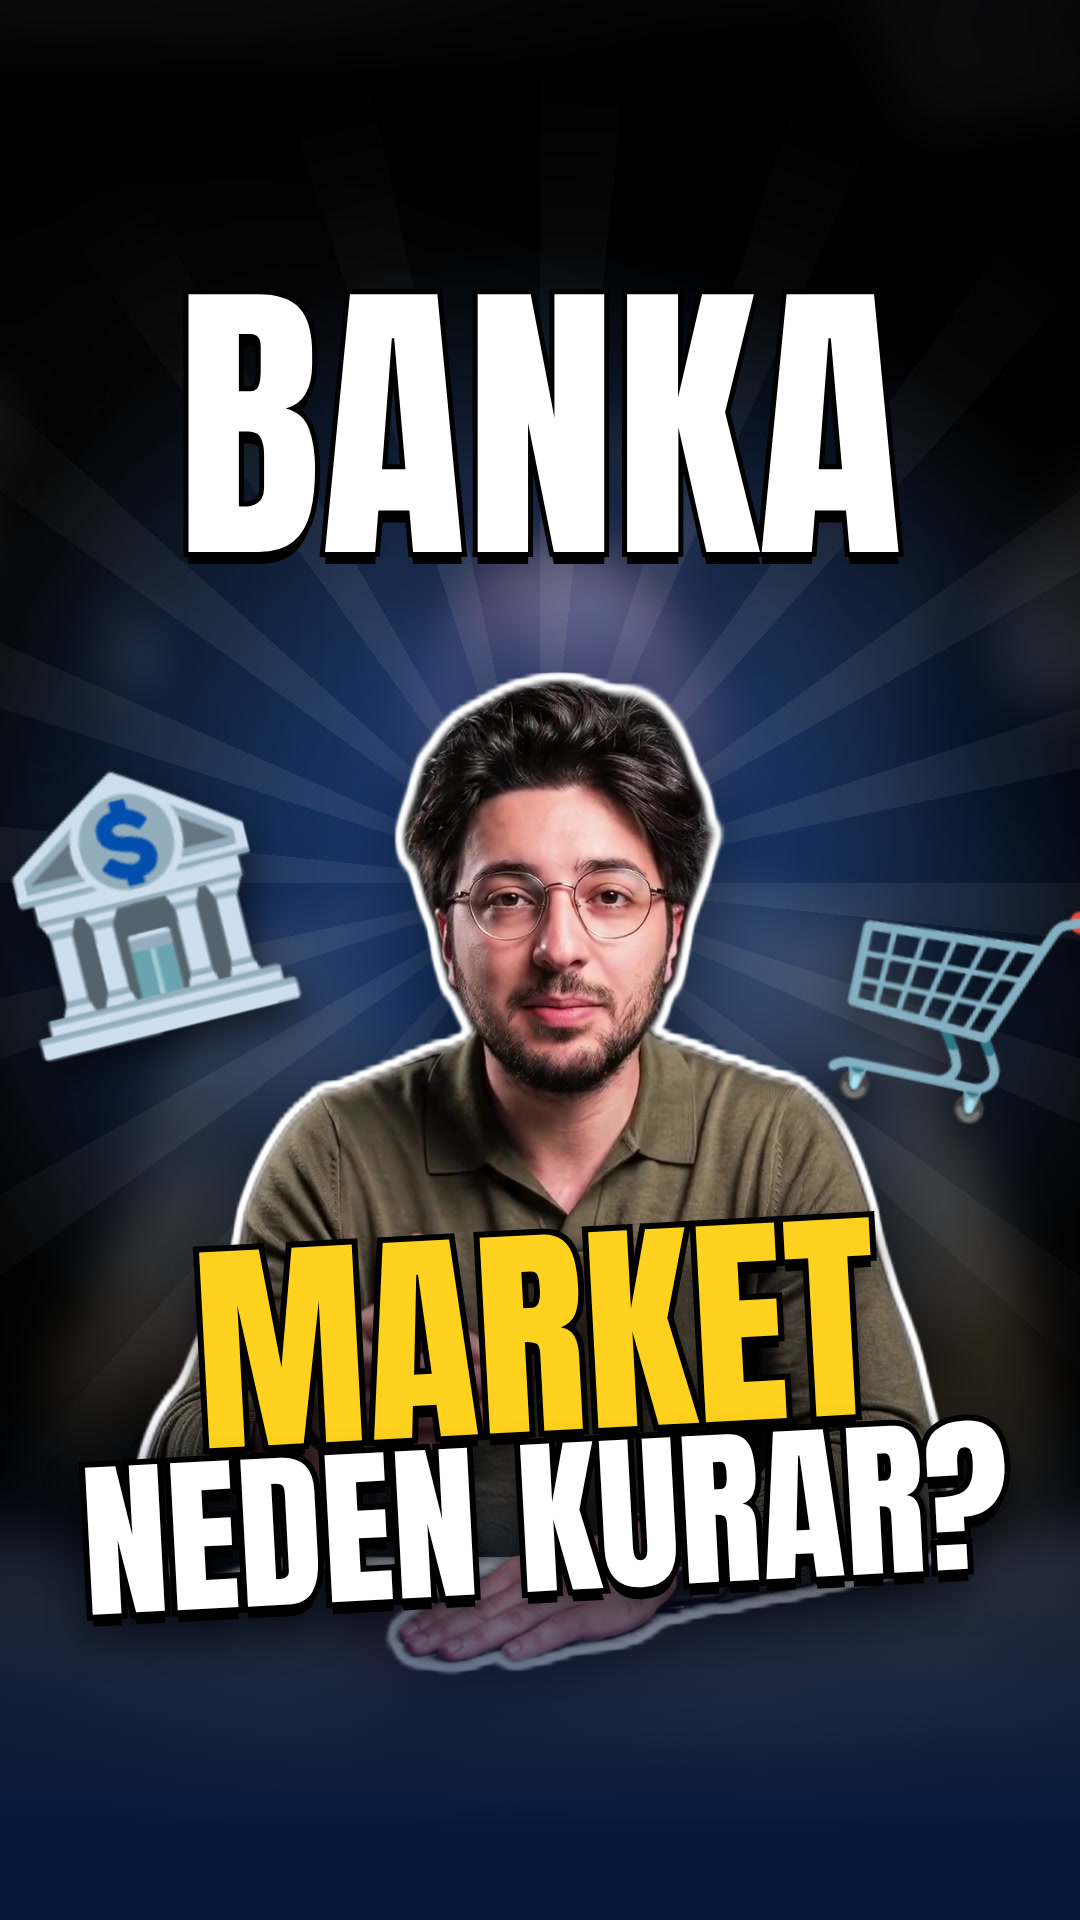
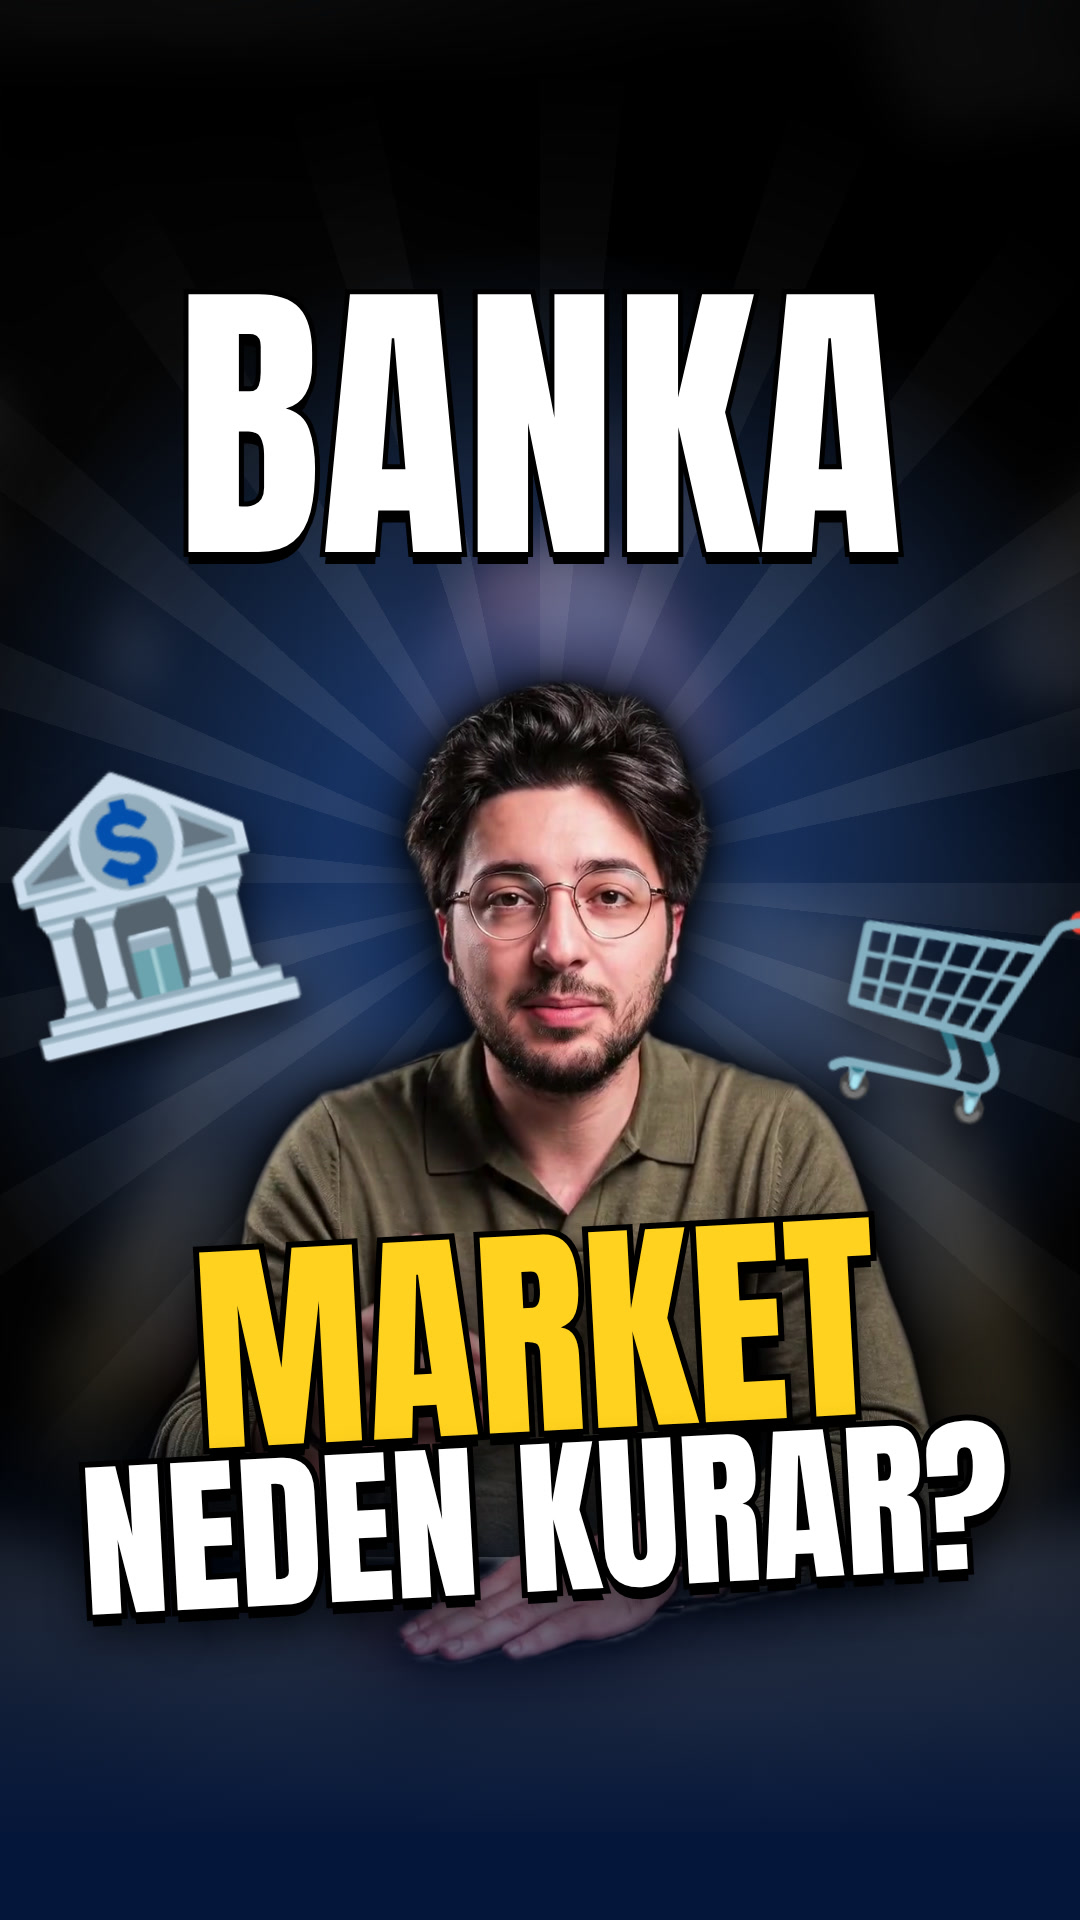
kapaklar: gölge kenar varsayılan, 11 sahne kapağı yeniden üretildi (beyaz kontur yok)
Claude-Session: https://claude.ai/code/session_01653SBEUtYBTraJFkbppWCe

diff --git a/engine/cover.py b/engine/cover.py
@@ -198,11 +198,11 @@ def main(slug, title, kick, video, at='1.2'):
                        shell=True, check=True, env=dict(os.environ, HYPERFRAMES_BROWSER_PATH=hf))
         # no white sticker outline (Ata, 21 Eki: it cut the hair badly). Feather the matte edge instead.
         feather(os.path.join(tmp, 'cut.png'))
-        edge = os.environ.get('COVER_EDGE', 'isik')
+        edge = os.environ.get('COVER_EDGE', 'golge')
         edges = {'dogal': 'drop-shadow(0 30px 40px rgba(0,0,0,.65))',
                  'isik': 'drop-shadow(0 0 2px rgba(255,255,255,.35)) drop-shadow(0 0 28px __ACC__) drop-shadow(0 30px 40px rgba(0,0,0,.65))',
                  'golge': 'drop-shadow(0 0 14px rgba(0,0,0,.9)) drop-shadow(0 0 30px rgba(0,0,0,.6)) drop-shadow(0 30px 40px rgba(0,0,0,.6))'}
-        page = TPL_SAHNE.replace('__EDGE__', edges.get(edge, edges['isik'])).replace('__FONTS__', fonts).replace('__BACK__', html.escape(parts[0].strip('*'))).replace('__FRONT__', front) \
+        page = TPL_SAHNE.replace('__EDGE__', edges.get(edge, edges['golge'])).replace('__FONTS__', fonts).replace('__BACK__', html.escape(parts[0].strip('*'))).replace('__FRONT__', front) \
             .replace('__ACC__', acc).replace('__DARK__', dark).replace('__P1__', props[0]).replace('__P2__', props[1])
     elif style == 'vurucu':
         # 'satır1 / *satır2* / !satır3!'  -> *..* yellow, !..! red, plain white; one line per '/'
